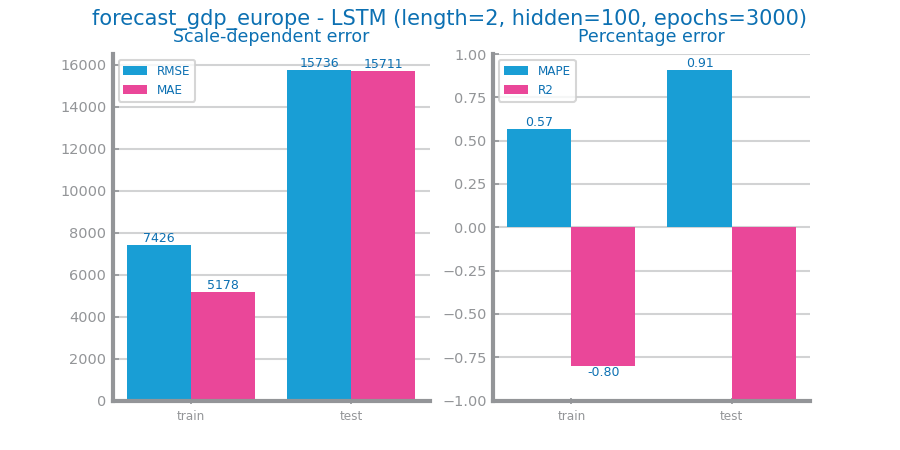
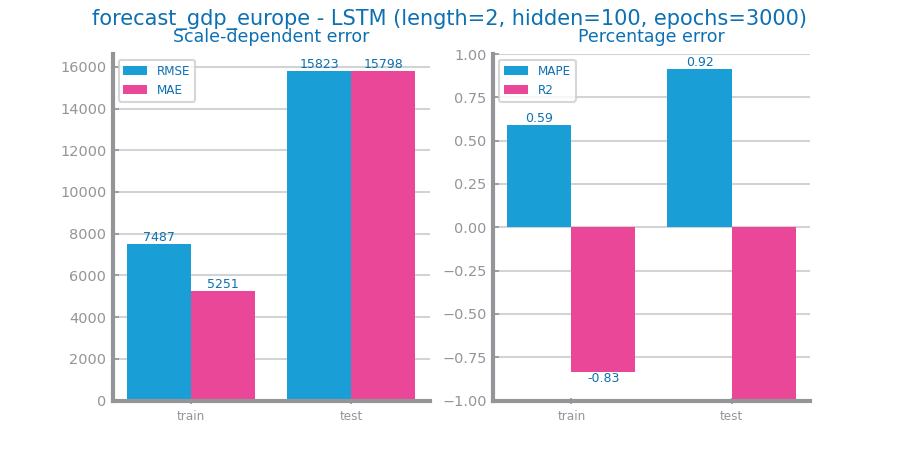
so falta o multivariate

diff --git a/Forecasting/Forecasting/Europe/exponential_smoothing_economical.py b/Forecasting/Forecasting/Europe/exponential_smoothing_economical.py
@@ -3,7 +3,7 @@ from statsmodels.tsa.holtwinters import SimpleExpSmoothing
 from dslabs_functions import series_train_test_split, HEIGHT, FORECAST_MEASURES, DELTA_IMPROVE, plot_line_chart, plot_forecasting_series,plot_forecasting_eval
 from matplotlib.pyplot import savefig
 
-filename: str = "Data/Time_Series/forecast_gdp_europe.csv"
+filename: str = "Data/Time_Series/forecast_gdp_europe_no_nan_second_diff.csv"
 file_tag: str = "forecast_gdp_europe"
 target: str = "GDP"
 timecol: str = "Year"
@@ -49,14 +49,14 @@ def exponential_smoothing_study(train: Series, test: Series, measure: str = "R2"
     return best_model, best_params
 
 best_model, best_params = exponential_smoothing_study(train, test, measure=measure)
-savefig(f"Forecasting/Images/Exponential_Smoothing/{file_tag}_exponential_smoothing_{measure}_study.png")
+savefig(f"Forecasting/Images/Exponential_Smoothing/{file_tag}_exponential_smoothing_{measure}_study_second_diff.png")
 
 params = best_params["params"]
 prd_trn = best_model.predict(start=0, end=len(train) - 1)
 prd_tst = best_model.forecast(steps=len(test))
 
 plot_forecasting_eval(train, test, prd_trn, prd_tst, title=f"{file_tag} - Exponential Smoothing alpha={params[0]}")
-savefig(f"Forecasting/Images/Exponential_Smoothing/{file_tag}_exponential_smoothing_{measure}_eval.png")
+savefig(f"Forecasting/Images/Exponential_Smoothing/{file_tag}_exponential_smoothing_{measure}_eval_second_diff.png")
 
 plot_forecasting_series(
     train,
@@ -66,4 +66,4 @@ plot_forecasting_series(
     xlabel=timecol,
     ylabel=target,
 )
-savefig(f"Forecasting/Images/Exponential_Smoothing/{file_tag}_exponential_smoothing_{measure}_forecast.png")
+savefig(f"Forecasting/Images/Exponential_Smoothing/{file_tag}_exponential_smoothing_{measure}_forecast_second_diff.png")

diff --git a/Forecasting/Forecasting/Europe/persistence_economical.py b/Forecasting/Forecasting/Europe/persistence_economical.py
@@ -24,7 +24,7 @@ class PersistenceOptimistRegressor(RegressorMixin):
         return prd_series
     
 
-filename: str = "Data/Time_Series/forecast_gdp_europe.csv"
+filename: str = "Data/Time_Series/forecast_gdp_europe_no_nan_second_diff.csv"
 file_tag: str = "forecast_gdp_europe"
 target: str = "GDP"
 timecol: str = "Year"
@@ -40,7 +40,7 @@ prd_trn: Series = fr_mod.predict(train)
 prd_tst: Series = fr_mod.predict(test)
 
 plot_forecasting_eval(train, test, prd_trn, prd_tst, title=f"{file_tag} - Persistence Optimist")
-savefig(f"Forecasting/Images/Persistence/{file_tag}_persistence_optim_eval.png")
+savefig(f"Forecasting/Images/Persistence/{file_tag}_persistence_optim_eval_second_diff.png")
 
 plot_forecasting_series(
     train,
@@ -50,7 +50,7 @@ plot_forecasting_series(
     xlabel=timecol,
     ylabel=target,
 )
-savefig(f"Forecasting/Images/Persistence/{file_tag}_persistence_optim_forecast.png")
+savefig(f"Forecasting/Images/Persistence/{file_tag}_persistence_optim_forecast_second_diff.png")
 
 class PersistenceRealistRegressor(RegressorMixin):
     def __init__(self):
@@ -80,7 +80,7 @@ prd_trn: Series = fr_mod.predict(train)
 prd_tst: Series = fr_mod.predict(test)
 
 plot_forecasting_eval(train, test, prd_trn, prd_tst, title=f"{file_tag} - Persistence Realist")
-savefig(f"Forecasting/Images/Persistence/{file_tag}_persistence_real_eval.png")
+savefig(f"Forecasting/Images/Persistence/{file_tag}_persistence_real_eval_second_diff.png")
 
 plot_forecasting_series(
     train,
@@ -90,4 +90,4 @@ plot_forecasting_series(
     xlabel=timecol,
     ylabel=target,
 )
-savefig(f"Forecasting/Images/Persistence/{file_tag}_persistence_real_forecast.png")
+savefig(f"Forecasting/Images/Persistence/{file_tag}_persistence_real_forecast_second_diff.png")

diff --git a/Forecasting/Forecasting/Europe/rolling_mean.py b/Forecasting/Forecasting/Europe/rolling_mean.py
@@ -61,7 +61,7 @@ def rolling_mean_study(train: Series, test: Series, measure: str = "R2"):
 
     return best_model, best_params
 
-filename: str = "Data/Time_Series/forecast_gdp_europe.csv"
+filename: str = "Data/Time_Series/forecast_gdp_europe_no_nan_second_diff.csv"
 file_tag: str = "forecast_gdp_europe"
 target: str = "GDP"
 timecol: str = "Year"
@@ -74,14 +74,14 @@ train, test = series_train_test_split(data, trn_pct=0.90)
 
 fig = figure(figsize=(HEIGHT, HEIGHT))
 best_model, best_params = rolling_mean_study(train, test)
-savefig(f"Forecasting/Images/Rolling_Mean/{file_tag}_rollingmean_{measure}_study.png")
+savefig(f"Forecasting/Images/Rolling_Mean/{file_tag}_rollingmean_{measure}_study_second_diff.png")
 
 params = best_params["params"]
 prd_trn: Series = best_model.predict(train)
 prd_tst: Series = best_model.predict(test)
 
 plot_forecasting_eval(train, test, prd_trn, prd_tst, title=f"{file_tag} - Rolling Mean (win={params[0]})")
-savefig(f"Forecasting/Images/Rolling_Mean/{file_tag}_rollingmean_{measure}_win{params[0]}_eval.png")
+savefig(f"Forecasting/Images/Rolling_Mean/{file_tag}_rollingmean_{measure}_win{params[0]}_eval_second_diff.png")
 
 plot_forecasting_series(
     train,
@@ -91,4 +91,4 @@ plot_forecasting_series(
     xlabel=timecol,
     ylabel=target,
 )
-savefig(f"Forecasting/Images/Rolling_Mean/{file_tag}_rollingmean_{measure}_forecast.png")
+savefig(f"Forecasting/Images/Rolling_Mean/{file_tag}_rollingmean_{measure}_forecast_second_diff.png")

diff --git a/Forecasting/Forecasting/Europe/lstm_economical.py b/Forecasting/Forecasting/Europe/lstm_economical.py
@@ -57,7 +57,7 @@ class DS_LSTM(Module):
             y_pred = self(X)
         return y_pred[:, -1, :]
     
-filename: str = "Data/Time_Series/forecast_gdp_europe.csv"
+filename: str = "Data/Time_Series/forecast_gdp_europe_no_nan_second_diff.csv"
 file_tag: str = "forecast_gdp_europe"
 target: str = "GDP"
 timecol: str = "Year"
@@ -129,7 +129,7 @@ def lstm_study(train, test, nr_episodes: int = 1000, measure: str = "R2"):
 
 
 best_model, best_params = lstm_study(train, test, nr_episodes=3000, measure=measure)
-savefig("Forecasting/Images/LSTM/all_plot_diagnostics.png")
+savefig("Forecasting/Images/LSTM/all_plot_diagnostics_second_diff.png")
 
 params = best_params["params"]
 best_length = params[0]
@@ -146,7 +146,7 @@ plot_forecasting_eval(
     prd_tst,
     title=f"{file_tag} - LSTM (length={best_length}, hidden={params[1]}, epochs={params[2]})",
 )
-savefig(f"Forecasting/Images/LSTM/{file_tag}_lstms_{measure}_eval.png")
+savefig(f"Forecasting/Images/LSTM/{file_tag}_lstms_{measure}_eval_second_diff.png")
 
 series = data[[target]]
 train, test = series[:train_size], series[train_size:]
@@ -160,4 +160,4 @@ plot_forecasting_series(
     xlabel=timecol,
     ylabel=target,
 )
-savefig(f"Forecasting/Images/LSTM/{file_tag}_lstms_{measure}_forecast.png")
+savefig(f"Forecasting/Images/LSTM/{file_tag}_lstms_{measure}_forecast_second_diff.png")

diff --git a/Forecasting/Forecasting/Europe/arima_economical.py b/Forecasting/Forecasting/Europe/arima_economical.py
@@ -6,7 +6,15 @@ from dslabs_functions import FORECAST_MEASURES, DELTA_IMPROVE, plot_multiline_ch
 from dslabs_functions import plot_forecasting_eval
 from dslabs_functions import plot_forecasting_series
 
-filename: str = "Data/Time_Series/forecast_gdp_europe.csv"
+from pandas import read_csv, DataFrame
+from statsmodels.tsa.api import VAR
+from dslabs_functions import series_train_test_split, HEIGHT
+from matplotlib.pyplot import figure, savefig, subplots
+from dslabs_functions import FORECAST_MEASURES, DELTA_IMPROVE, plot_multiline_chart
+from dslabs_functions import plot_forecasting_eval
+from dslabs_functions import plot_forecasting_series
+
+filename: str = "Data/Time_Series/forecast_gdp_europe_no_nan.csv"
 file_tag: str = "forecast_gdp_europe"
 target: str = "GDP"
 timecol: str = "Year"
@@ -72,7 +80,7 @@ prd_tst = best_model.forecast(steps=len(test))
 plot_forecasting_eval(
     train, test, prd_trn, prd_tst, title=f"{file_tag} - ARIMA (p={params[0]}, d={params[1]}, q={params[2]})"
 )
-savefig(f"Forecasting/Images/ARIMA/{file_tag}_arima_{measure}_eval.png")
+savefig(f"Forecasting/Images/ARIMA/{file_tag}_arima_{measure}_eval_second.png")
 
 
 plot_forecasting_series(
@@ -84,3 +92,4 @@ plot_forecasting_series(
     ylabel=target,
 )
 savefig(f"Forecasting/Images/ARIMA/{file_tag}_arima_{measure}_forecast.png")
+

diff --git a/Forecasting/Forecasting/Europe/linear_regression_economical.py b/Forecasting/Forecasting/Europe/linear_regression_economical.py
@@ -6,7 +6,7 @@ from dslabs_functions import series_train_test_split, plot_forecasting_eval
 from dslabs_functions import plot_forecasting_series
 
 
-filename: str = "Data/Time_Series/forecast_gdp_europe.csv"
+filename: str = "Data/Time_Series/forecast_gdp_europe_no_nan_second_diff.csv"
 file_tag: str = "forecast_gdp_europe"
 target: str = "GDP"
 timecol: str = "Year"
@@ -27,7 +27,7 @@ prd_trn: Series = Series(model.predict(trnX), index=train.index)
 prd_tst: Series = Series(model.predict(tstX), index=test.index)
 
 plot_forecasting_eval(train, test, prd_trn, prd_tst, title=f"{file_tag} - Linear Regression")
-savefig(f"Forecasting/Images/Linear_Regression/{file_tag}_linear_regression_eval.png")
+savefig(f"Forecasting/Images/Linear_Regression/{file_tag}_linear_regression_eval_second_diff.png")
 
 
 plot_forecasting_series(
@@ -38,4 +38,4 @@ plot_forecasting_series(
     xlabel=timecol,
     ylabel=target,
 )
-savefig(f"Forecasting/Images/Linear_Regression/{file_tag}_linear_regression_forecast.png")
+savefig(f"Forecasting/Images/Linear_Regression/{file_tag}_linear_regression_forecast_second_diff.png")

diff --git a/Forecasting/Transformation/Europe/differentiation_economical.py b/Forecasting/Transformation/Europe/differentiation_economical.py
@@ -59,6 +59,7 @@ plot_ts_multivariate_chart(data, title=f"{file_tag} {target}")
 savefig(f"Forecasting/Images/Differentiation/{file_tag}_multivariate.png")
 
 diff_df: DataFrame = data.diff()
+diff_df.to_csv("Data/Time_Series/forecast_gdp_europe_first_diff.csv", index=True)
 
 train, test = series_train_test_split(diff_df, trn_pct=0.90)
 test.to_csv("Data/Time_Series/forecast_gdp_europe_first_diff_test.csv", index=True)
@@ -86,6 +87,7 @@ plot_ts_multivariate_chart(data, title=f"{file_tag} {target}")
 savefig(f"Forecasting/Images/Differentiation/{file_tag}_multivariate2.png")
 
 diff_df: DataFrame = data.diff().diff()
+diff_df.to_csv("Data/Time_Series/forecast_gdp_europe_second_diff.csv", index=True)
 
 train, test = series_train_test_split(diff_df, trn_pct=0.90)
 test.to_csv("Data/Time_Series/forecast_gdp_europe_second_diff_test.csv", index=True)
